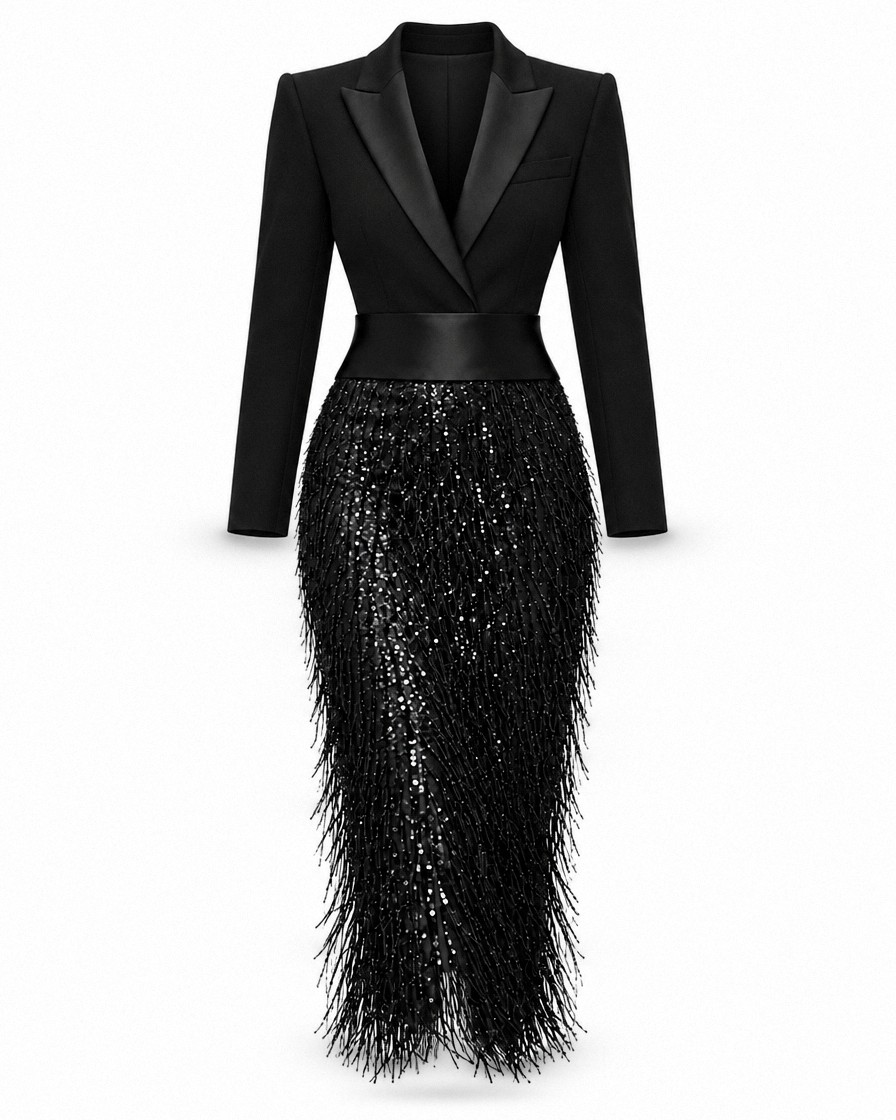
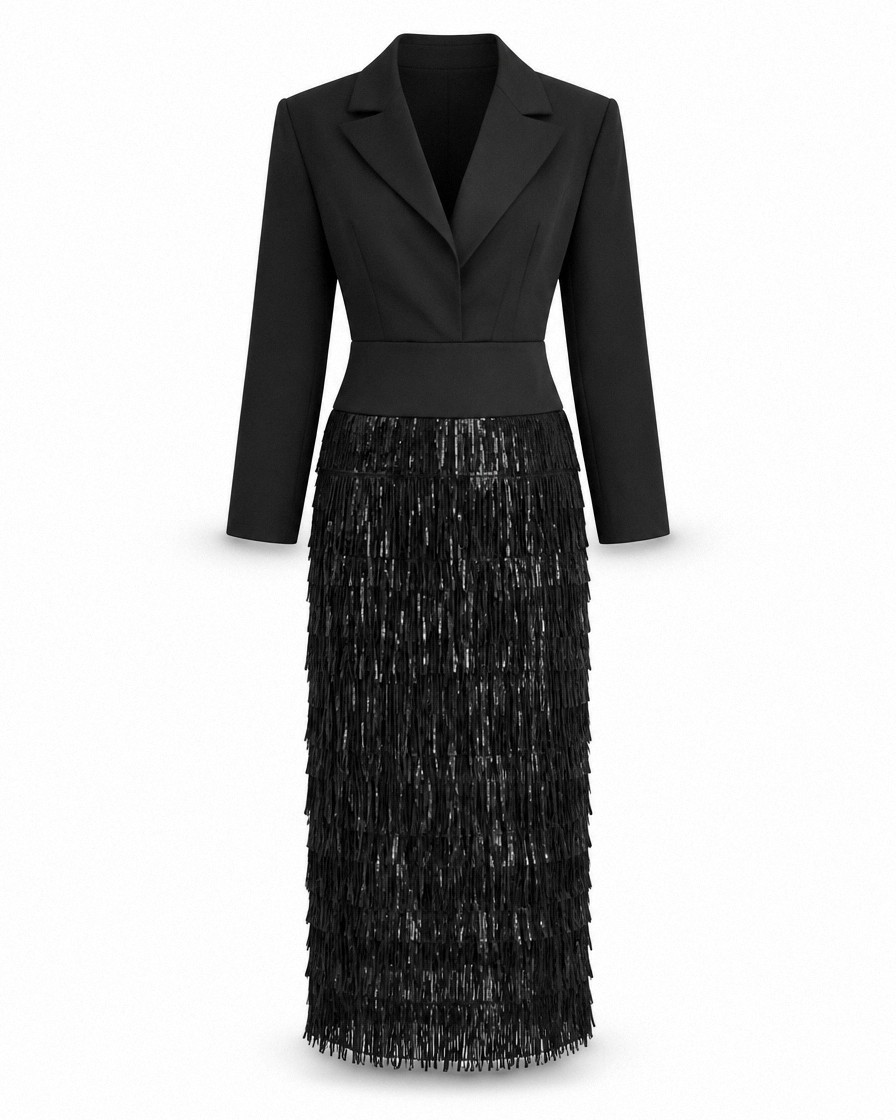
Vestido Marta: coste confirmado (21,33 €), ganador de la búsqueda del 24/11
Claude-Session: https://claude.ai/code/session_01P13KH2gtcVY7NGB3WrTRXy

diff --git a/docs/productos-nuevos-2026-11-24.md b/docs/productos-nuevos-2026-11-24.md
@@ -6,7 +6,7 @@ TikTok y Google & YouTube. Stock sin seguimiento. Sin precio tachado. Mismo proc
 
 | Producto | Origen | PVP | Colores | Tallas | Colecciones |
 |---|---|---|---|---|---|
-| [Vestido Marta con cuerpo blazer y falda de lentejuelas](https://oelnorstore.com/products/vestido-marta-con-cuerpo-blazer-y-falda-de-lentejuelas) | «Jimena / Ottoline» (Rose Varenne #3, Carolina Moretti #6) | 64,95 € | Negro | XS–2XL | Vestidos, Moda Mujer |
+| [Vestido Marta con cuerpo blazer y falda de lentejuelas](https://oelnorstore.com/products/vestido-marta-con-cuerpo-blazer-y-falda-de-lentejuelas) | «Jimena / Ottoline» (Rose Varenne #3, Carolina Moretti #6) | 64,95 € | Negro | XS–3XL | Vestidos, Moda Mujer |
 | [Botines Emma de puntera cuadrada con tacón esculpido](https://oelnorstore.com/products/botines-emma-de-puntera-cuadrada-con-tacon-esculpido) | «Pilar» (Anitta Moretti #2, 27 anuncios) | 64,95 € | Marrón, negro | 35–40 | Calzado mujer, Moda Mujer |
 | [Jersey Celia de cuello alto con botones asimétricos](https://oelnorstore.com/products/jersey-celia-de-cuello-alto-con-botones-asimetricos) | «Clara» (Silvia Dávila #2, Valenti Sartoria #2) | 59,95 € | Verde, moka, morado, negro, burdeos | S–3XL | Jerséis mujer, Moda Mujer |
 | [Mono Daniela cargo efecto ante con cremallera](https://oelnorstore.com/products/mono-daniela-cargo-efecto-ante-con-cremallera) | «Vittoria» (Carolina Moretti #2, Rose Varenne #6) | 64,95 € | Verde oscuro, azul marino | XS–2XL | Moda Mujer |
@@ -32,3 +32,9 @@ Formato de la tienda (por qué te va a gustar, detalles, talla y ajuste, cómo c
 ## Pendiente del proveedor (antes de testear cualquiera)
 Coste por escrito (+5 €/pedido), plazo real, composición, medidas por talla, fotos reales y muestra.
 A 64,95 €: coste ≤ 23 € para CPA máx. ≥ 30 €. Jersey a 59,95 €: coste ≤ 18 €.
+
+## Costes confirmados
+- **Vestido Marta: 21,33 € por unidad con envío** (11,91 € producto + 9,42 € servicio), 6–12 días, 100 % poliéster (24/11).
+  CPA máx. sin IVA 32,2 €. Con las 2 fotos reales del proveedor se rehízo la foto de fondo blanco (solapas mate, sin raso, como la
+  prenda real), se añadieron las 2 fotos reales al final de la galería, la talla 3XL y la composición en la ficha.
+  Las fotos y el presupuesto del proveedor no se guardan en el repositorio (solo en Shopify).

diff --git a/docs/busqueda-productos-2026-11-24.md b/docs/busqueda-productos-2026-11-24.md
@@ -86,3 +86,12 @@ cortes en la semana más cara del año. Desde el 30/11 los precios bajan y empie
 - Pedir al proveedor (hoy): coste (+5 €/pedido), composición, tallas, plazo y **muestra/fotos reales** del vestido de lentejuelas,
   y de reserva el jersey de botones asimétricos.
 - Con el coste, subir el vestido a la tienda (ficha, tallas, plazo real) y preparar creativos (fotos primero; vídeos solo editorial).
+
+## Actualización 24/11 (tarde): coste del proveedor del vestido de lentejuelas
+El proveedor da **21,33 € por unidad con envío a España** (11,91 € producto + 9,42 € servicio/envío), **tallas XS–3XL**,
+**plazo 6–12 días**, **100 % poliéster**, y manda 2 fotos reales (delante y espalda en maniquí) que coinciden con el producto.
+Pendiente: tabla de medidas y muestra.
+
+CPA máx. sin IVA = 0,905 × 64,95 − 21,33 − 5,25 = **32,2 €** (≥ 25 € ✅).
+Nueva puntuación: Anun. 4 · Exac. 11 · Econ. 18 · Gan. 14 · Temp. 10 · **Prov. 7** (coste y fotos reales, sin muestra) · Aj. 4 = **68**
+→ supera a Leire (67) y pasa el filtro de coste. **Ganador: Vestido Marta.** Test previsto el miércoles 2/12 (decisión de fecha de la dueña).
